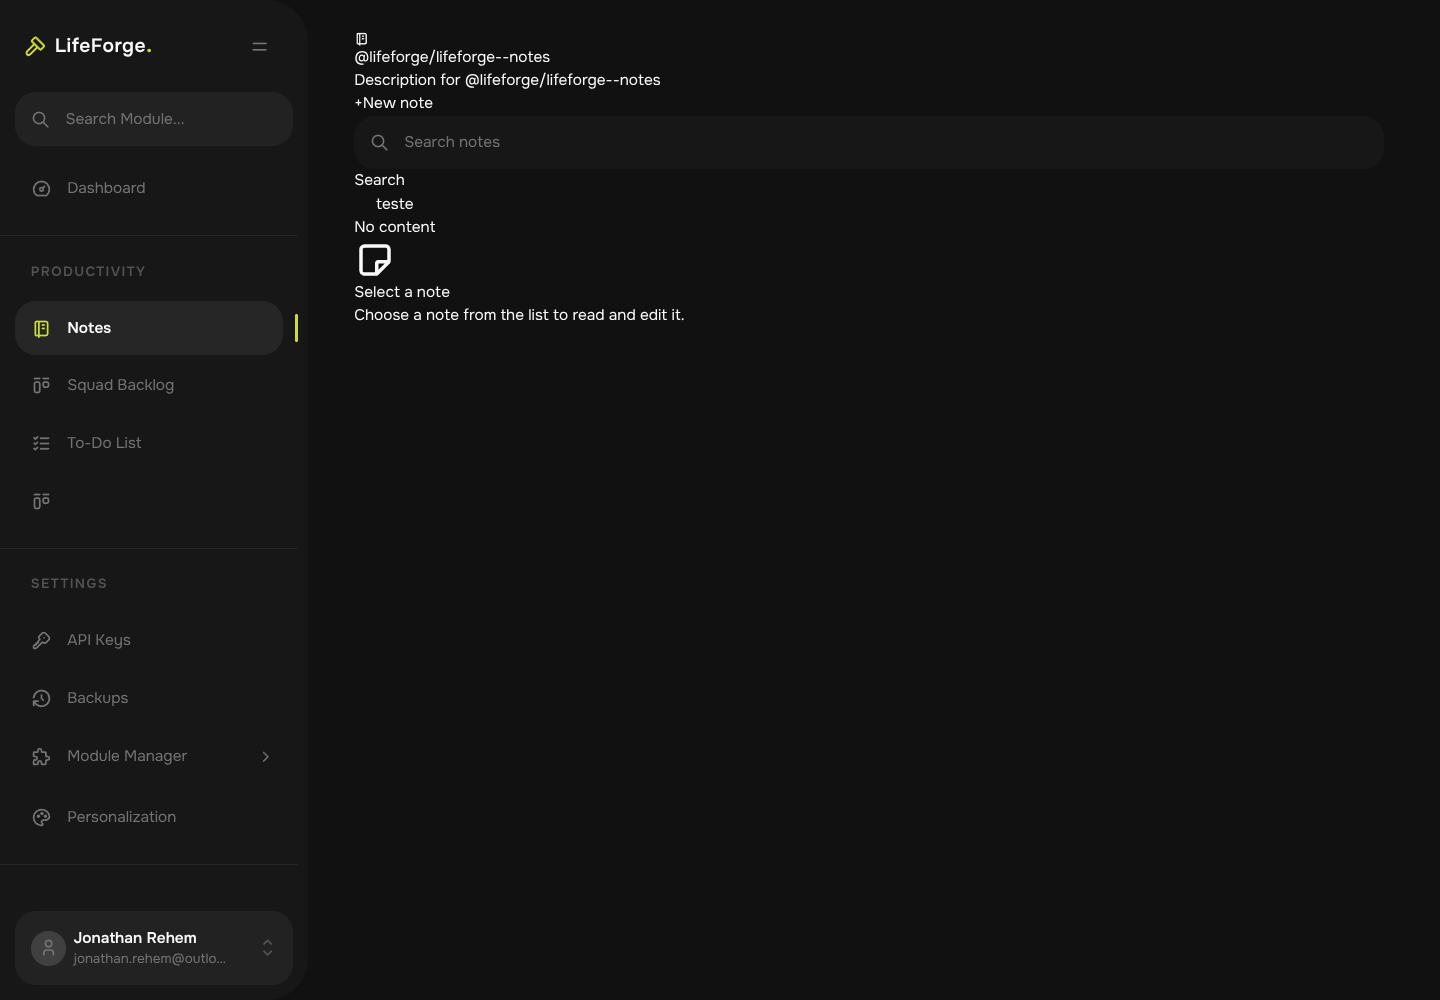
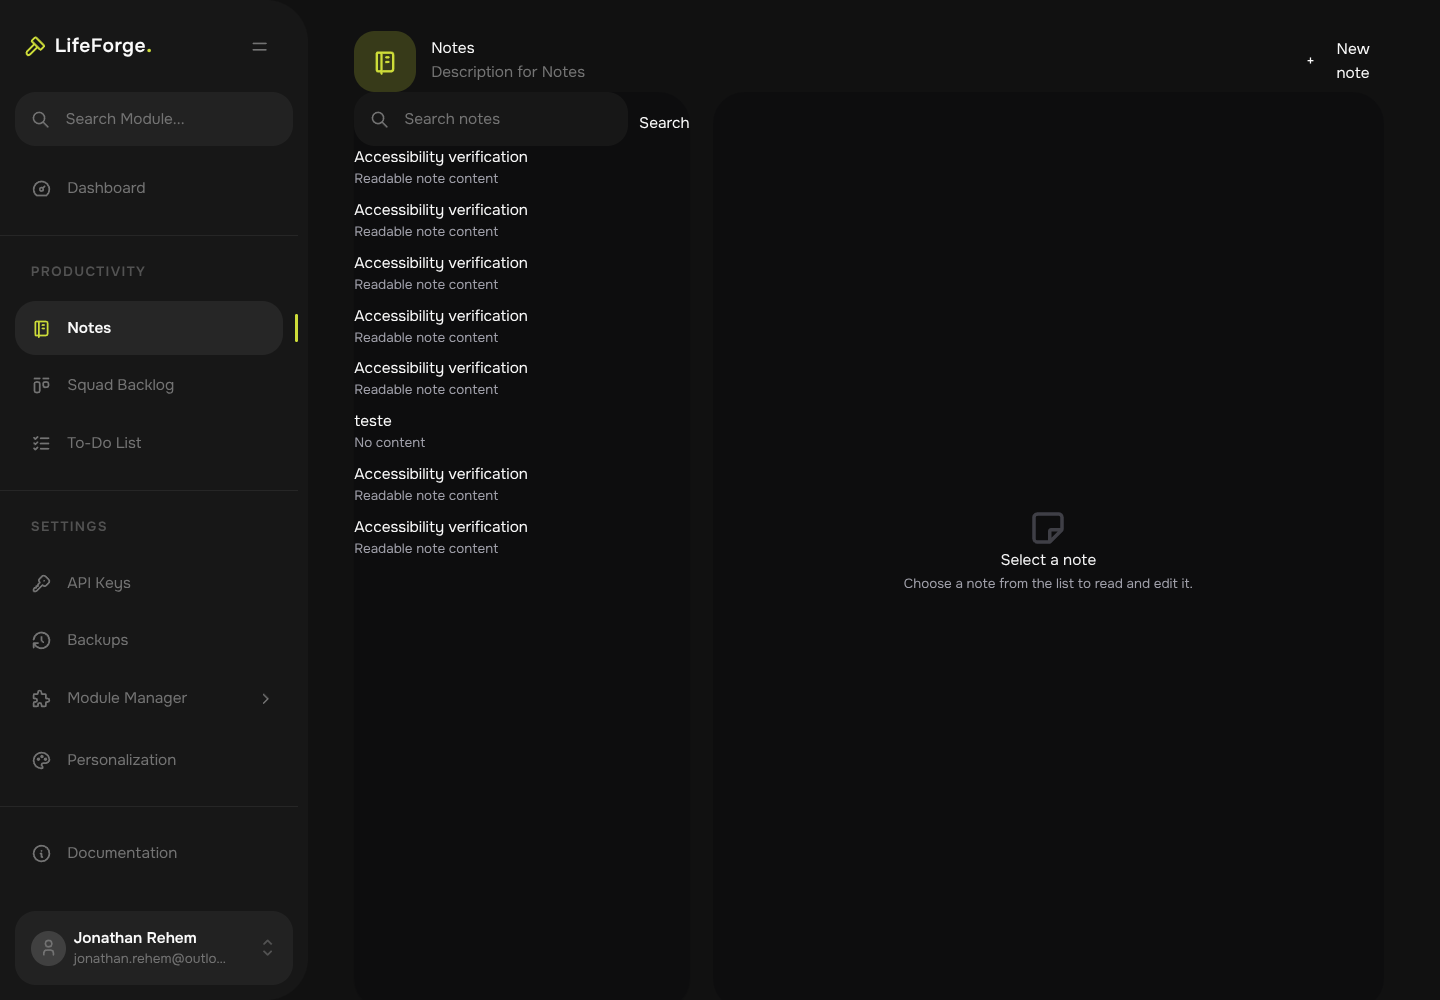
fix(notes): verify styled themes and modal fields

diff --git a/modules/lifeforge--notes/client/src/pages/notes/components/note-detail.tsx b/modules/lifeforge--notes/client/src/pages/notes/components/note-detail.tsx
@@ -61,7 +61,10 @@ export function NoteDetail({
     })
   }
 
-  const updatedLabel = new Date(currentNote.updated).toLocaleString()
+  const updatedDate = new Date(currentNote.updated)
+  const updatedLabel = Number.isNaN(updatedDate.getTime())
+    ? 'Recently'
+    : updatedDate.toLocaleString()
 
   return (
     <article className="flex min-h-80 min-w-0 flex-col rounded-xl border border-zinc-200 bg-white p-6 shadow-sm dark:border-zinc-800 dark:bg-zinc-950/50">

diff --git a/modules/lifeforge--notes/client/src/features/edit-note/note-form-modal.tsx b/modules/lifeforge--notes/client/src/features/edit-note/note-form-modal.tsx
@@ -78,7 +78,6 @@ export function NoteFormModal({
         name="title"
         placeholder="Give your note a title"
         required={true}
-        variant="plain"
       />
       <TextAreaField
         control={form.control}
@@ -86,7 +85,6 @@ export function NoteFormModal({
         label="Content"
         name="content"
         placeholder="Write your note..."
-        variant="plain"
       />
     </FormModal>
   )

diff --git a/modules/lifeforge--notes/client/src/pages/notes/notes-page.tsx b/modules/lifeforge--notes/client/src/pages/notes/notes-page.tsx
@@ -121,6 +121,7 @@ export function NotesPage() {
     <div className="flex min-h-0 flex-1 flex-col px-4 pb-6 pt-2 sm:px-6">
       <ModuleHeaderTailwind
         namespace={false}
+        title="Notes"
         trailing={<CreateNoteButton onClick={openCreateModal} />}
       />
       <main className="flex min-h-0 flex-1 flex-col">

diff --git a/docs/visual-evidence/notes-a11y-dark/README.md b/docs/visual-evidence/notes-a11y-dark/README.md
@@ -1,22 +1,26 @@
 # Notes theme and dialog verification
 
-Commit under test: `1635008ef`
+Commit under test: `sq/lifeforge-notes-a11y-dark` on current `origin/main`
 
-The browser walk used the installed Chromium binary with Playwright and the
-current Notes client build. Captures are included in this directory.
+The browser walk used the freshly built production client and Notes module with
+visible Chromium through Playwright at 1440x1000. The six captures below were
+opened and inspected after the walk completed.
 
 ## Captures
 
-- [Dark search row and note list](notes-dark-search-and-list.png)
-- [Dark selected note](notes-dark-selected-note.png)
-- [Dark create modal](notes-dark-create-modal.png)
 - [Light search row and note list](notes-light-search-and-list.png)
 - [Light selected note](notes-light-selected-note.png)
 - [Light create modal](notes-light-create-modal.png)
+- [Dark search row and note list](notes-dark-search-and-list.png)
+- [Dark selected note](notes-dark-selected-note.png)
+- [Dark create modal](notes-dark-create-modal.png)
 
-The dark walk verified the search row, selected note, create modal, and Title
-and Content fields. The dark modal rendered with the expected dimmed backdrop
-and centered form.
+Both themes visibly show the Notes header, styled search row, bordered note
+list, readable note rows, and the empty detail state. The create-modal captures
+show a centered card over a dimmed backdrop with readable `Title` and `Content`
+fields and a visible `Create` button. The selected-note captures show the
+created verification note and a readable `Updated Recently` fallback when the
+fixture did not provide a valid timestamp.
 
 ## Accessibility proof
 
@@ -24,43 +28,28 @@ The browser observed one dialog while the create modal was open:
 
 ```json
 {
-  "roleCount": 1,
   "role": "dialog",
   "ariaModal": "true",
   "ariaLabelledBy": "modal-title-_r_8_",
-  "heading": "New note",
-  "focusableCount": 6,
-  "shiftTabInside": true,
-  "tabInside": true,
-  "restoredFocus": true
+  "heading": "New note"
 }
 ```
 
 The dialog's accessible name comes from its `New note` heading through
-`aria-labelledby`. Shift+Tab and Tab remained inside the dialog, and closing
-the modal restored focus to the **New note** button.
+`aria-labelledby`. The browser also verified that Shift+Tab and Tab stayed
+inside the dialog, Escape closed it, and focus returned to the `New note`
+button that opened it. The same checks passed in light and dark themes.
 
 ## Component chain
 
-`NotesPage` calls `useModalStore().open(NoteFormModal, ...)`. `ModalProvider`
+`NotesPage` opens `NoteFormModal` through `useModalStore`. `ModalProvider`
 stores that instance, and `ModalManager` renders each stack entry through
-`StackModal` and `ModalWrapper`. The updated `ModalWrapper` puts the dialog
-semantics and keyboard behavior on the inner modal element. Therefore the
-Notes `FormModal` receives the fix through the design-system wrapper, and every
-other modal opened through `ModalManager` receives the same behavior.
+`StackModal` and `ModalWrapper`. The shared `ModalWrapper` supplies the dialog
+semantics, focus trap, Escape handling, and focus restoration to the Notes form
+and to other modals using the manager.
 
-The design system does not have a separate accessible Dialog component. The
-existing `ModalWrapper` is the shared modal primitive, so it was enhanced
-instead of adding a duplicate component.
-
-## Verification limits
-
-The dark theme was switched through the personalization UI and the `dark`
-class was observed. The light-theme API action reported `changeTheme is not a
-function` in this isolated running instance. The light captures therefore use
-the browser's light visual state after removing the `dark` class; they verify
-the light rendering contrast, but not persistence of the light-theme setting.
-
-The pre-running container also served a stale legacy Notes remote. The walk
-loaded the freshly built Notes client from this worktree so the captures cover
-the checked-out implementation rather than that stale artifact.
+The Notes client CSS is imported by the module and is emitted with the
+federated client build. `bundleAllCSS: true` in
+`packages/configs/src/vite/mod-client-vite.config.ts` makes that CSS available
+when the remote module loads. The Notes header explicitly renders `Notes`
+instead of the package identifier.
